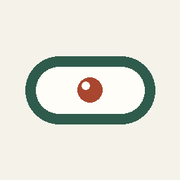
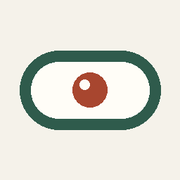
Enlarge the Capsule seal so the pill and stamp read at header size.

Changed region(s): [[0.0833, 0.2778, 0.9167, 0.7222]]

diff --git a/src/components/capsule-seal.tsx b/src/components/capsule-seal.tsx
@@ -10,17 +10,17 @@ export function CapsuleSeal({ className }: { className?: string }) {
       focusable="false"
     >
       <rect
-        x="4.5"
-        y="10"
-        width="23"
-        height="12"
-        rx="6"
+        x="3.5"
+        y="9"
+        width="25"
+        height="14"
+        rx="7"
         fill="var(--card)"
         stroke="var(--accent)"
-        strokeWidth="1.85"
+        strokeWidth="2"
       />
-      <circle cx="16" cy="16" r="2.2" fill="var(--stamp)" />
-      <circle cx="15.25" cy="15.25" r="0.65" fill="var(--card)" opacity="0.8" />
+      <circle cx="16" cy="16" r="3.1" fill="var(--stamp)" />
+      <circle cx="15.05" cy="15.05" r="0.9" fill="var(--card)" opacity="0.85" />
     </svg>
   );
 }

diff --git a/src/lib/ui-locks.test.ts b/src/lib/ui-locks.test.ts
@@ -39,7 +39,7 @@ describe("brand chrome locks", () => {
 
   it("favicon and apple-touch are icon-only assets", () => {
     const icon = readFileSync(resolve(here, "../app/icon.svg"), "utf8");
-    expect(icon).toContain("rx=\"6\"");
+    expect(icon).toContain("rx=\"7\"");
     expect(icon).toContain("<circle");
     expect(icon).not.toContain("envelope");
     expect(icon).not.toMatch(/M\s*\d+\s+\d+\s+L\s*16\s+\d+\s+L\s*\d+\s+\d+/i);

diff --git a/src/app/globals.css b/src/app/globals.css
@@ -148,8 +148,8 @@ select {
 }
 
 .brand__mark {
-  width: 26px;
-  height: 26px;
+  width: 32px;
+  height: 32px;
   flex: none;
   display: block;
 }
